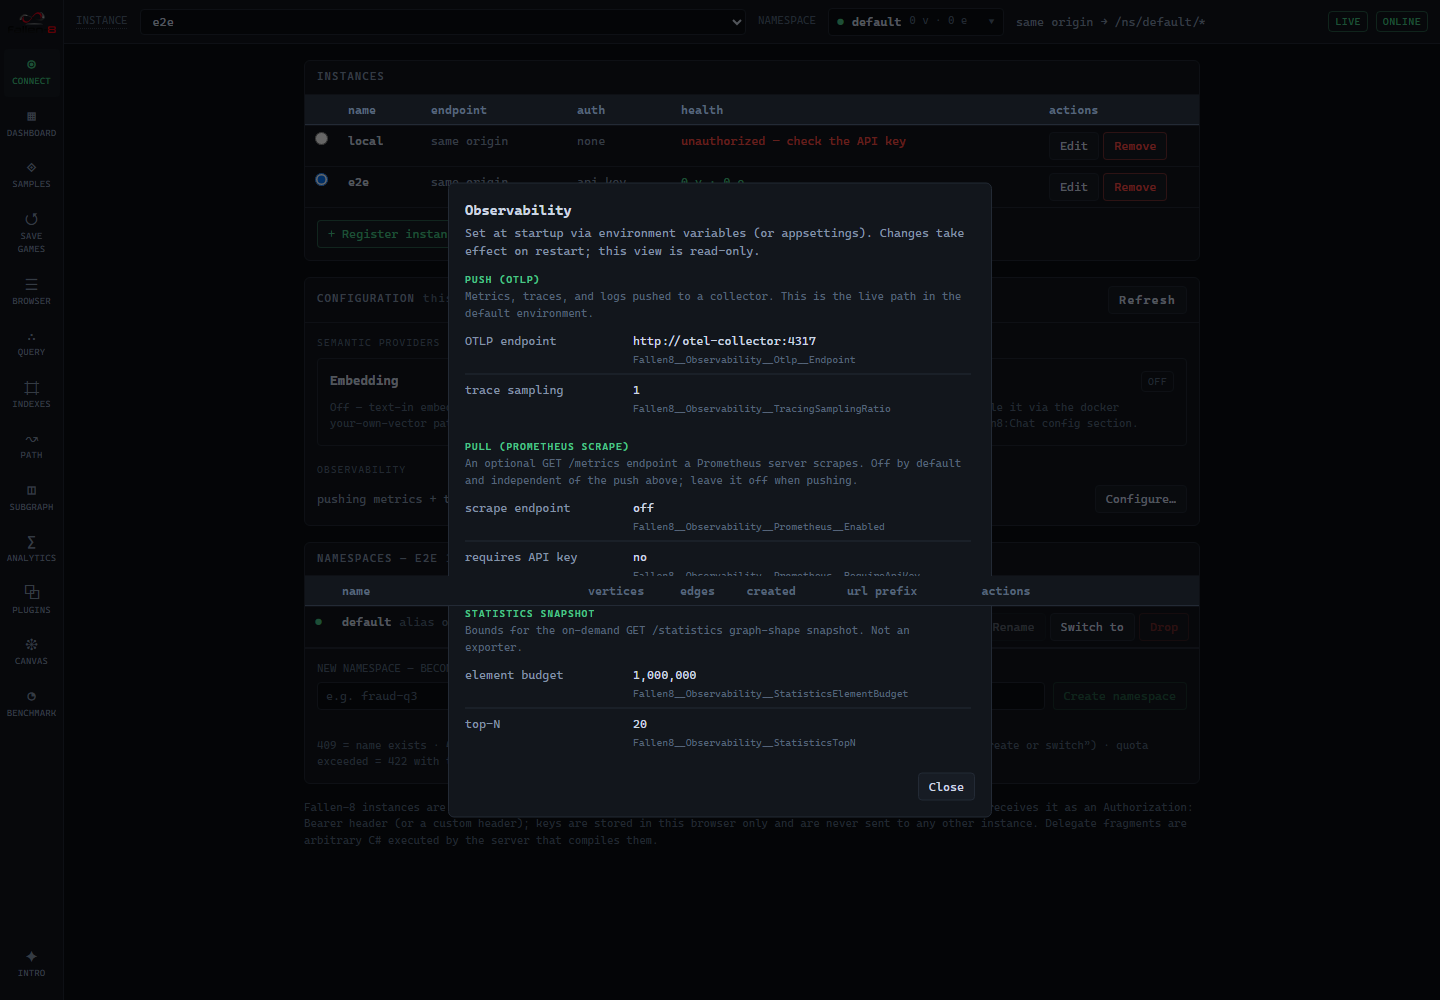
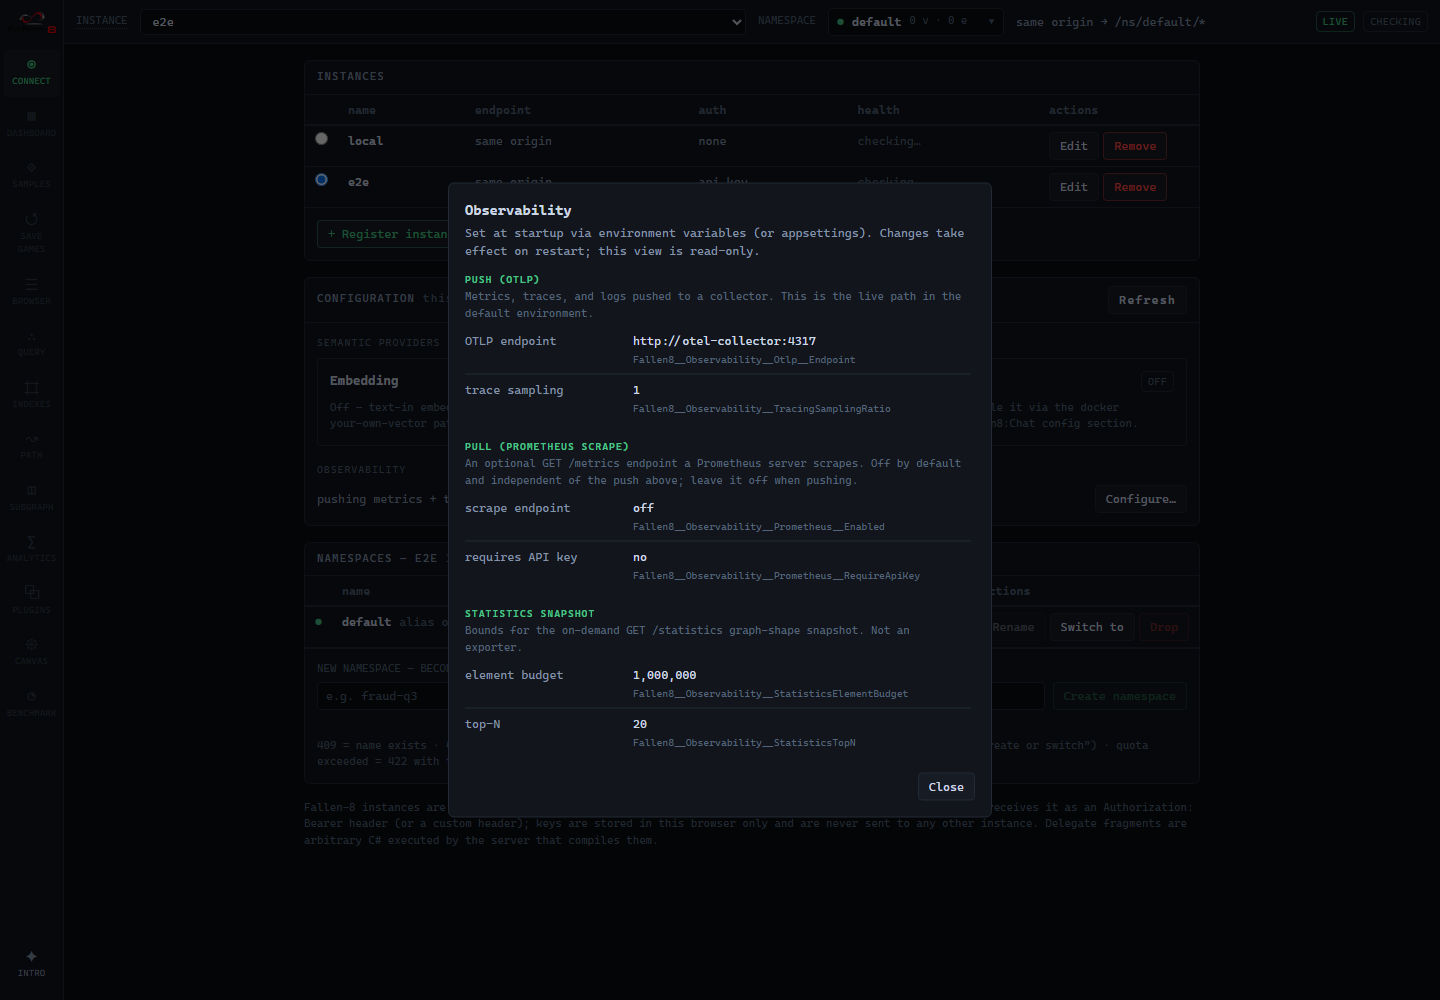
modal-overlay: give centered dialogs a z-index so sticky list headers no longer bleed through

diff --git a/fallen-8-web-ui/src/index.css b/fallen-8-web-ui/src/index.css
@@ -69,6 +69,17 @@ body {
   @apply text-fg-dim border-line flex items-center gap-2 border-b px-3 py-2 text-[11px] font-semibold tracking-widest uppercase;
 }
 
+/* Modal dialogs (Radix Dialog) must sit above everything, including the sticky list headers
+   (`.scroll-list thead th`, z-index 1) that otherwise bleed through the panel. This is the one
+   home for the modal stacking order: scrim at z-40, panel at z-50. Every `Dialog.Overlay` uses
+   `.modal-overlay`; a centered dialog adds `.modal-center` alongside `.panel` on its content. */
+.modal-overlay {
+  @apply fixed inset-0 z-40 bg-black/60;
+}
+.modal-center {
+  @apply fixed top-1/2 left-1/2 z-50 -translate-x-1/2 -translate-y-1/2;
+}
+
 .btn {
   @apply border-line bg-panel-2 text-fg hover:border-fg-faint inline-flex cursor-pointer items-center gap-1.5 rounded border px-2.5 py-1 text-[12px] transition-colors disabled:cursor-not-allowed disabled:opacity-40;
 }

diff --git a/fallen-8-web-ui/src/components/ConfigurationPanel.tsx b/fallen-8-web-ui/src/components/ConfigurationPanel.tsx
@@ -276,8 +276,8 @@ function ObservabilityOverlay({
   return (
     <Dialog.Root open={open} onOpenChange={(o) => !o && onClose()}>
       <Dialog.Portal>
-        <Dialog.Overlay className="fixed inset-0 bg-black/60" />
-        <Dialog.Content className="panel fixed top-1/2 left-1/2 flex max-h-[90vh] w-[34rem] max-w-[92vw] -translate-x-1/2 -translate-y-1/2 flex-col p-4">
+        <Dialog.Overlay className="modal-overlay" />
+        <Dialog.Content className="panel modal-center flex max-h-[90vh] w-[34rem] max-w-[92vw] flex-col p-4">
           <Dialog.Title className="text-fg text-sm font-bold">Observability</Dialog.Title>
           <Dialog.Description className="text-fg-dim mt-1 text-[12px]">
             Set at startup via environment variables (or appsettings). Changes take effect on

diff --git a/fallen-8-web-ui/src/firstrun/FirstRunOverlay.tsx b/fallen-8-web-ui/src/firstrun/FirstRunOverlay.tsx
@@ -57,10 +57,10 @@ export function FirstRunOverlay() {
   return (
     <Dialog.Root open={replayOpen} onOpenChange={(o) => !o && closeReplay()}>
       <Dialog.Portal>
-        <Dialog.Overlay className="fixed inset-0 bg-black/70" />
+        <Dialog.Overlay className="fixed inset-0 z-40 bg-black/70" />
         <Dialog.Content
           data-testid="first-run-overlay"
-          className="panel fixed top-1/2 left-1/2 flex h-[min(680px,88vh)] w-[min(1000px,92vw)] -translate-x-1/2 -translate-y-1/2 flex-col p-4"
+          className="panel modal-center flex h-[min(680px,88vh)] w-[min(1000px,92vw)] flex-col p-4"
         >
           <div className="mb-2 flex items-center gap-2">
             <Dialog.Title className="text-fg-dim text-[11px] font-semibold tracking-widest uppercase">

diff --git a/fallen-8-web-ui/src/components/ConfirmDialog.tsx b/fallen-8-web-ui/src/components/ConfirmDialog.tsx
@@ -71,8 +71,8 @@ export function ConfirmDialog({
       }}
     >
       <Dialog.Portal>
-        <Dialog.Overlay className="fixed inset-0 bg-black/60" />
-        <Dialog.Content className="panel fixed top-1/2 left-1/2 w-[28rem] max-w-[90vw] -translate-x-1/2 -translate-y-1/2 p-4">
+        <Dialog.Overlay className="modal-overlay" />
+        <Dialog.Content className="panel modal-center w-[28rem] max-w-[90vw] p-4">
           <Dialog.Title className="text-danger wrap-break-word text-sm font-bold">{title}</Dialog.Title>
           <Dialog.Description className="text-fg-dim mt-2 text-[12px]">
             {description} This targets{" "}

diff --git a/fallen-8-web-ui/src/components/StoredQueryControls.tsx b/fallen-8-web-ui/src/components/StoredQueryControls.tsx
@@ -259,8 +259,8 @@ export function SaveAsStoredQuery({
         }}
       >
         <Dialog.Portal>
-          <Dialog.Overlay className="fixed inset-0 bg-black/60" />
-          <Dialog.Content className="panel fixed top-1/2 left-1/2 w-[28rem] max-w-[90vw] -translate-x-1/2 -translate-y-1/2 p-4">
+          <Dialog.Overlay className="modal-overlay" />
+          <Dialog.Content className="panel modal-center w-[28rem] max-w-[90vw] p-4">
             <Dialog.Title className="text-fg text-sm font-bold">
               Save as stored query
             </Dialog.Title>

diff --git a/fallen-8-web-ui/src/plugin/PluginEditor.tsx b/fallen-8-web-ui/src/plugin/PluginEditor.tsx
@@ -228,7 +228,7 @@ export function PluginEditor({
   return (
     <Dialog.Root open onOpenChange={(open) => !open && onCancel()}>
       <Dialog.Portal>
-        <Dialog.Overlay className="fixed inset-0 z-40 bg-black/60" />
+        <Dialog.Overlay className="modal-overlay" />
         {/* Centered via inset+m-auto, NOT translate: a transform would become the containing
             block for Monaco's fixedOverflowWidgets (suggest/hover). */}
         <Dialog.Content className="panel fixed inset-0 z-50 m-auto flex h-[85vh] w-5xl max-w-[95vw] flex-col">

diff --git a/fallen-8-web-ui/src/delegate/DelegateEditor.tsx b/fallen-8-web-ui/src/delegate/DelegateEditor.tsx
@@ -176,7 +176,7 @@ export function DelegateEditor({
   return (
     <Dialog.Root open onOpenChange={(open) => !open && onCancel()}>
       <Dialog.Portal>
-        <Dialog.Overlay className="fixed inset-0 z-40 bg-black/60" />
+        <Dialog.Overlay className="modal-overlay" />
         {/* Centered via inset+m-auto, NOT translate: a transform here would become the
             containing block for Monaco's fixedOverflowWidgets (suggest/hover), shifting
             them away from the cursor. */}
